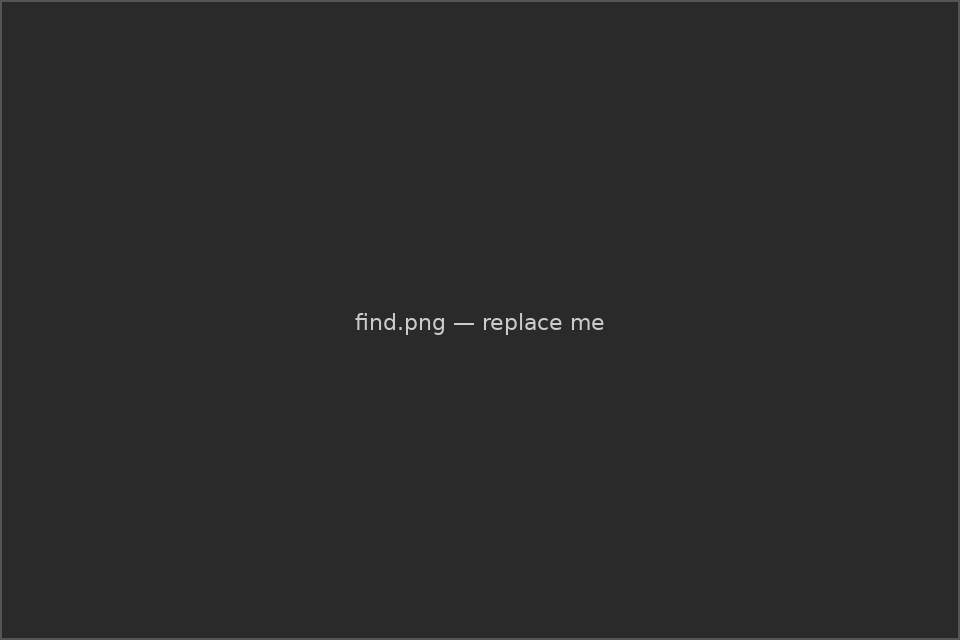
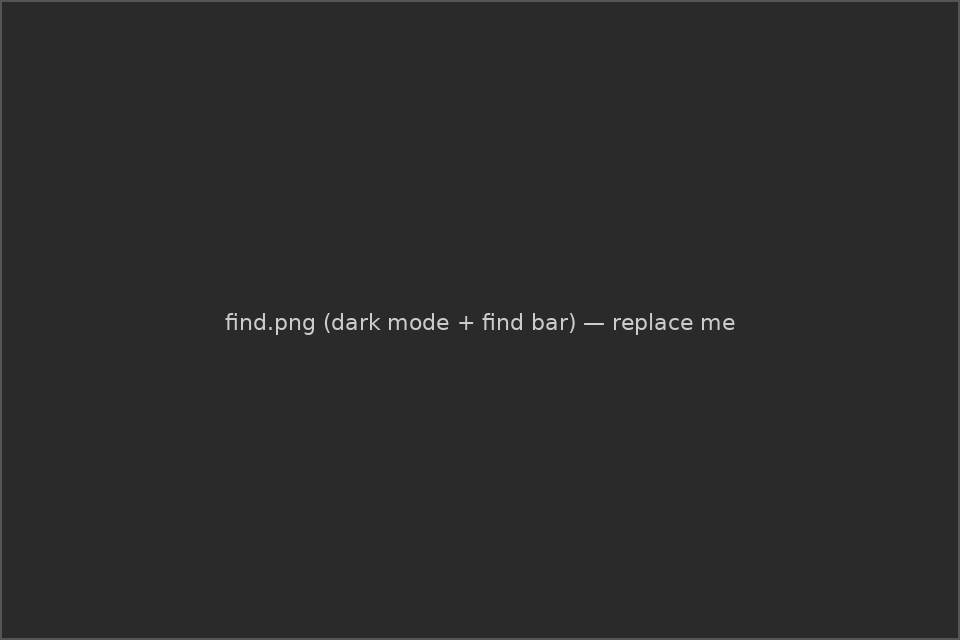
README: trim showcase to two screenshots, narrow hero to 600 px
Per Leon's preference. Hero stays at the top, rendered at width=600
(file captures ~1000x640). Showcase grid drops dark-mode and syntax
panels, keeps just outline (light mode, sidebar visible) and find
(dark mode, find bar open). Screenshots guide updated accordingly.

Placeholder PNGs regenerated at the new sizes; dark-mode.png and
syntax.png removed.

Changed region(s): [[0.5, 0.4688, 0.7812, 0.5312], [0.25, 0.4688, 0.4688, 0.5312]]

diff --git a/docs/screenshots/README.md b/docs/screenshots/README.md
@@ -1,6 +1,6 @@
 # Screenshots
 
-The repo README references five PNGs in this folder. Until you drop them
+The repo README references three PNGs in this folder. Until you drop them
 in, GitHub will show broken-image placeholders, which is fine while you
 iterate, but worth fixing before any link gets shared.
 
@@ -8,13 +8,11 @@ iterate, but worth fixing before any link gets shared.
 
 | File | Used as | Suggested window |
 |---|---|---|
-| `hero.png` | Top-of-README banner | 1280×800, light mode, a longish doc scrolled near the top so headings + paragraphs + a code block are visible at once |
-| `dark-mode.png` | Showcase grid (top-left) | 960×640, dark mode, same doc as `hero.png` for visual continuity |
-| `find.png` | Showcase grid (top-right) | 960×640, dark mode, find bar open with a query that has multiple matches, ideally with one toggle (Aa / Word / .*) active |
-| `outline.png` | Showcase grid (bottom-left) | 960×640, either mode, outline sidebar (`Ctrl+T`) visible alongside the document |
-| `syntax.png` | Showcase grid (bottom-right) | 960×640, dark mode, scrolled to show a fully-highlighted code block (Python, Rust, or C++ work well; anything with comments + strings + keywords) |
+| `hero.png` | Top-of-README banner (rendered at 600 px wide) | Light mode, a longish doc scrolled near the top so headings + paragraphs + a code block are visible at once. ~1000×640 captures well at the 600 px display size. |
+| `outline.png` | Showcase grid (left) | 960×640, light mode, outline sidebar (`Ctrl+T`) visible alongside the document |
+| `find.png` | Showcase grid (right) | 960×640, dark mode, find bar open with a query that has multiple matches, ideally with one toggle (Aa / Word / .*) active |
 
-Keep all four "showcase grid" files at the same aspect ratio (3:2 works
+Keep the two showcase-grid files at the same aspect ratio (3:2 works
 well) so the table stays tidy.
 
 ## Capturing on Wayland

diff --git a/README.md b/README.md
@@ -17,7 +17,7 @@
 </p>
 
 <p align="center">
-  <img src="docs/screenshots/hero.png" alt="mdview rendering a Markdown document" width="820">
+  <img src="docs/screenshots/hero.png" alt="mdview rendering a Markdown document" width="600">
 </p>
 
 ---
@@ -68,22 +68,12 @@ The cost is low enough that you'll actually use it.
 <table>
   <tr>
     <td align="center">
-      <img src="docs/screenshots/dark-mode.png" alt="Dark mode" width="380"><br>
-      <sub><b>Dark mode.</b> <code>Ctrl+D</code> toggles; syntax-highlight theme swaps too.</sub>
+      <img src="docs/screenshots/outline.png" alt="Outline sidebar in light mode" width="420"><br>
+      <sub><b>Outline sidebar (light mode).</b> <code>Ctrl+T</code>. h1–h3, click to jump.</sub>
     </td>
     <td align="center">
-      <img src="docs/screenshots/find.png" alt="Find bar" width="380"><br>
-      <sub><b>Find bar.</b> Case / whole-word / regex modes, full text-cursor editing.</sub>
-    </td>
-  </tr>
-  <tr>
-    <td align="center">
-      <img src="docs/screenshots/outline.png" alt="Outline sidebar" width="380"><br>
-      <sub><b>Outline sidebar.</b> <code>Ctrl+T</code>. h1–h3, click to jump.</sub>
-    </td>
-    <td align="center">
-      <img src="docs/screenshots/syntax.png" alt="Syntax-highlighted code blocks" width="380"><br>
-      <sub><b>Async syntax highlighting.</b> Off-thread <code>bat</code> / <code>pygmentize</code> / <code>highlight</code>.</sub>
+      <img src="docs/screenshots/find.png" alt="Find bar in dark mode" width="420"><br>
+      <sub><b>Find bar (dark mode).</b> Case / whole-word / regex, full text-cursor editing.</sub>
     </td>
   </tr>
 </table>
